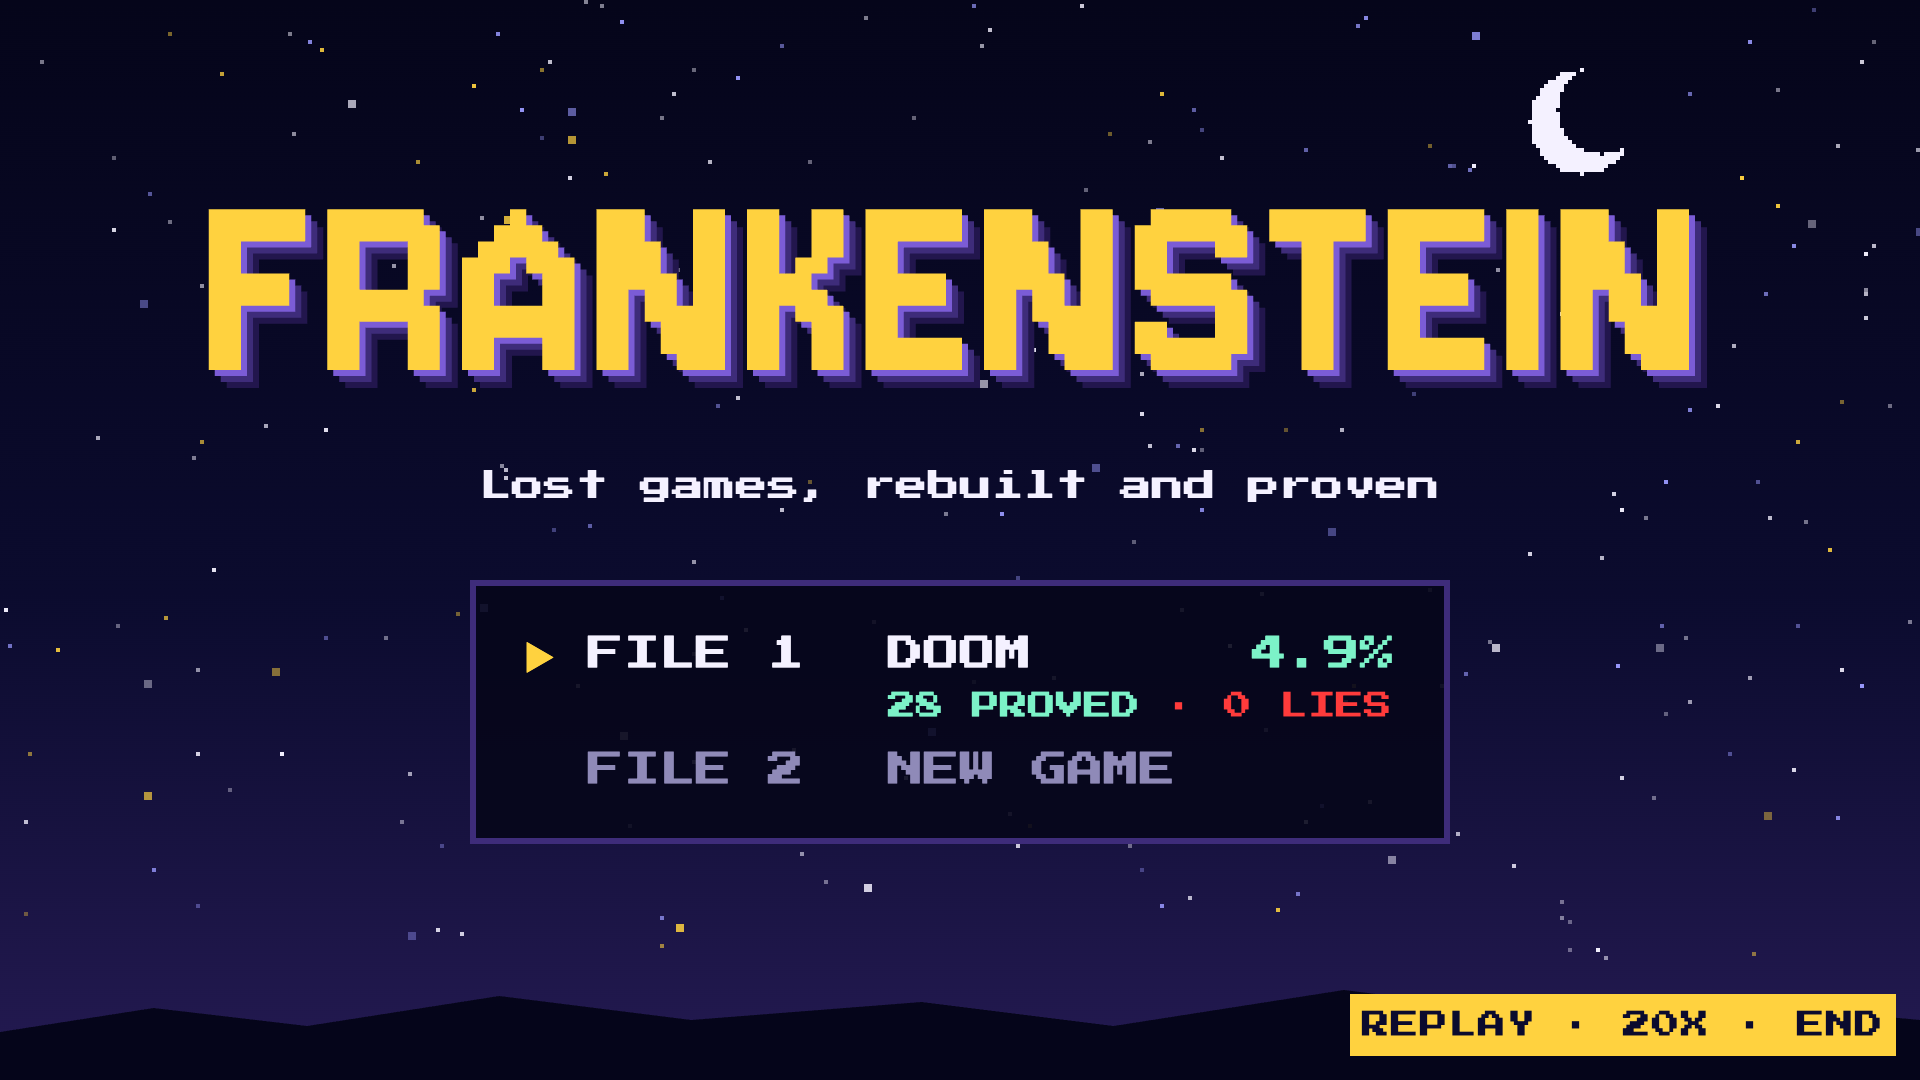
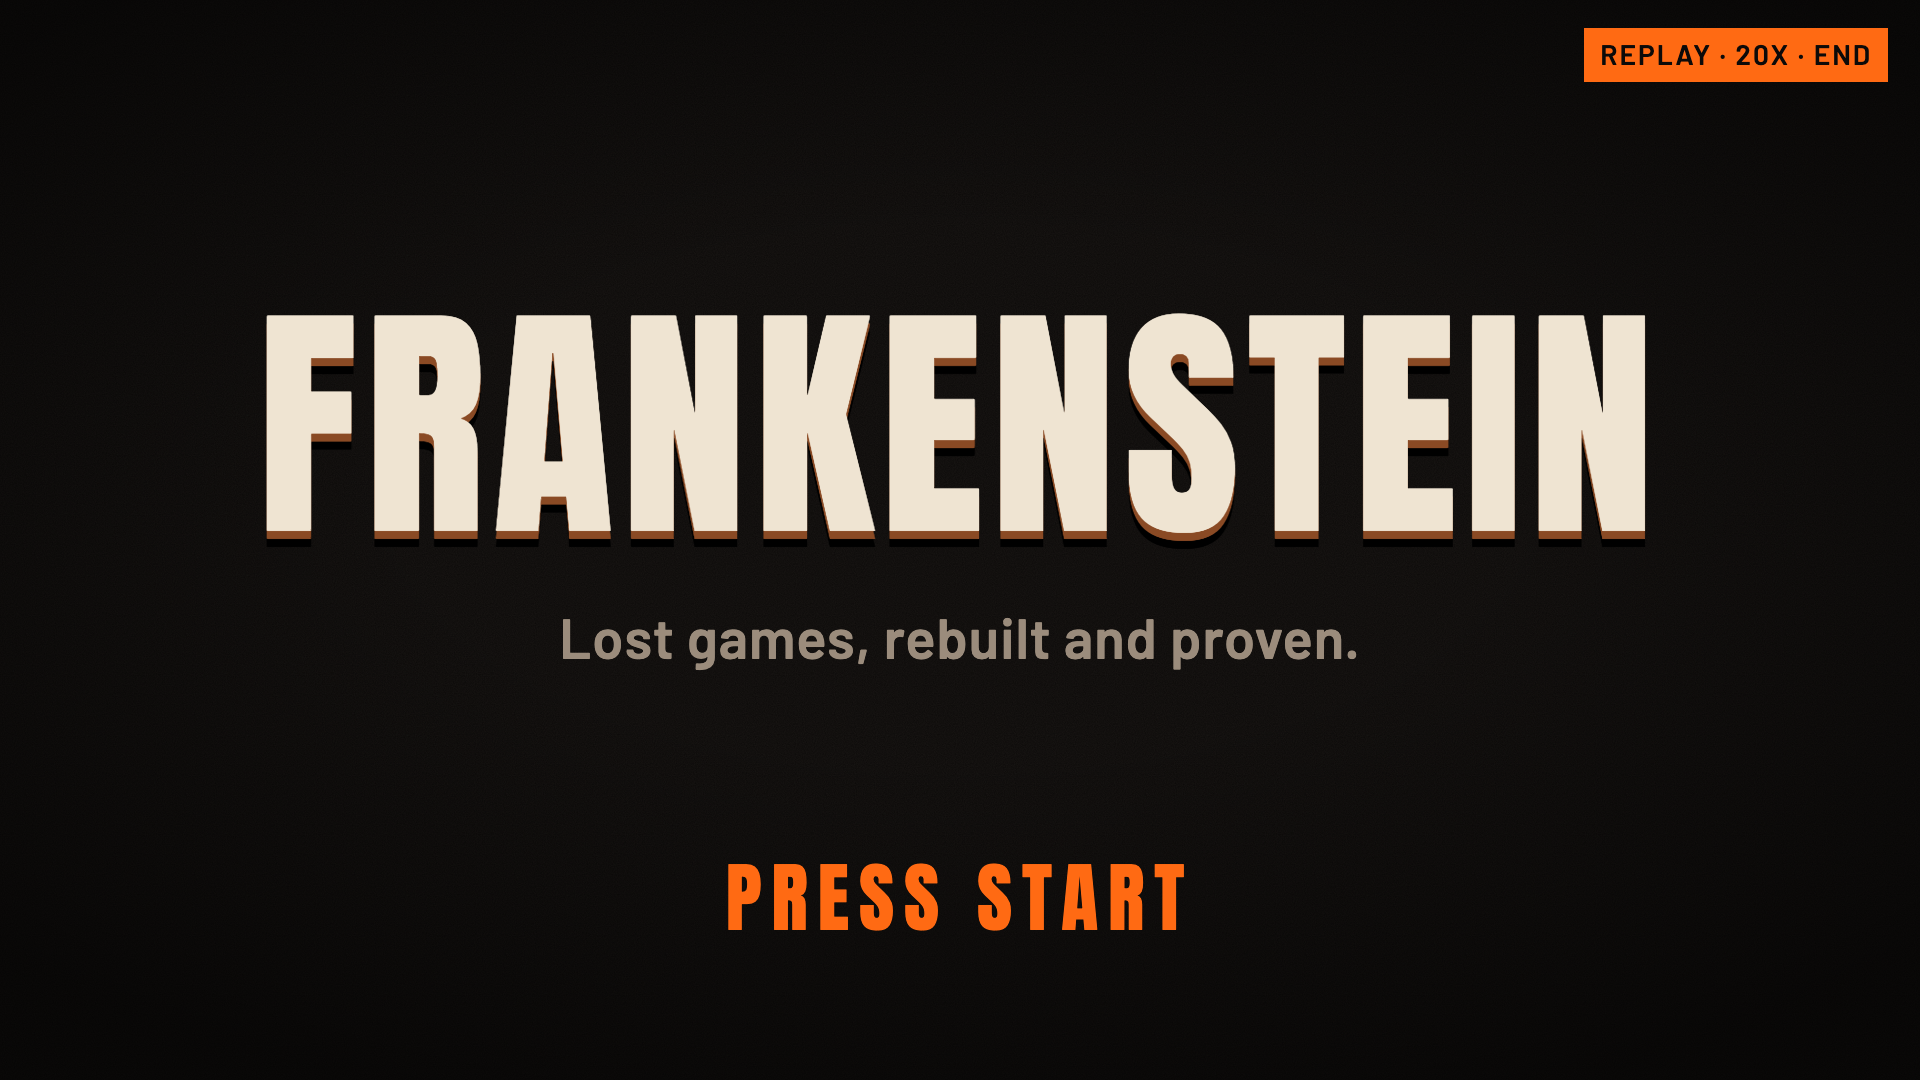
stage: Title screen: the name, one line, PRESS START
FRANKENSTEIN in Anton with a hard rust edge, 'Lost games, rebuilt and proven.'
and a blinking PRESS START (steady under reduced motion). The save-file menu,
moon and stars are gone.

diff --git a/stage/src/scenes/title.ts b/stage/src/scenes/title.ts
@@ -1,30 +1,7 @@
-// Scene 0: Title. Logo, save-file menu fed from the run, PRESS START.
+// Scene 0: Title. Three things only: the name, the promise, PRESS START.
+import './title.css';
 import type { Ctx, Scene } from '../types.ts';
 import { h } from '../types.ts';
-import { gameName, gamePct } from './common.ts';
-
-export function drawStars(cv: HTMLCanvasElement, moon = true) {
-  const g = cv.getContext('2d')!;
-  cv.width = 1920;
-  cv.height = 1080;
-  let seed = 1847;
-  const rnd = () => ((seed = (seed * 16807) % 2147483647) / 2147483647);
-  for (let i = 0; i < 260; i++) {
-    const x = Math.floor(rnd() * 480) * 4, y = Math.floor(rnd() * 240) * 4;
-    const big = rnd() < 0.12;
-    g.fillStyle = rnd() < 0.15 ? '#FFD23F' : rnd() < 0.3 ? '#9A9AFF' : '#F4F1FF';
-    g.globalAlpha = 0.35 + rnd() * 0.65;
-    g.fillRect(x, y, big ? 8 : 4, big ? 8 : 4);
-  }
-  g.globalAlpha = 1;
-  if (!moon) return;
-  // a pixel moon
-  g.fillStyle = '#F4F1FF';
-  const mx = 1580, my = 120, r = 13;
-  for (let yy = -r; yy <= r; yy++) for (let xx = -r; xx <= r; xx++) {
-    if (xx * xx + yy * yy <= r * r && (xx - 5) * (xx - 5) + (yy + 3) * (yy + 3) > (r - 2) * (r - 2)) g.fillRect(mx + xx * 4, my + yy * 4, 4, 4);
-  }
-}
 
 export class TitleScene implements Scene {
   id = 'title' as const;
@@ -32,30 +9,12 @@ export class TitleScene implements Scene {
 
   constructor(reduced: boolean) {
     this.el.innerHTML = `
-      <canvas class="stars"></canvas>
-      <div class="hill"></div>
-      <div class="logo">FRANKENSTEIN</div>
-      <div class="tag">Lost games, rebuilt and proven</div>
-      <div class="menu">
-        <div class="f"><span class="cur">▶</span><span>FILE 1</span><span data-k="game">DOOM</span><span class="pct" data-k="pct">--%</span></div>
-        <div class="sub" data-k="lies">0 LIES CAUGHT</div>
-        <div class="f new"><span></span><span>FILE 2</span><span>NEW GAME</span><span></span></div>
+      <div class="ti-col">
+        <h1 class="ti-logo">FRANKENSTEIN</h1>
+        <p class="ti-tag">Lost games, rebuilt and proven.</p>
       </div>
-      <div class="press${reduced ? '' : ' blink'}">PRESS START</div>
-`;
-    drawStars(this.el.querySelector('canvas')!);
+      <div class="ti-press${reduced ? '' : ' blink'}">PRESS START</div>`;
   }
 
-  render(ctx: Ctx) {
-    const s = ctx.state;
-    const q = (k: string) => this.el.querySelector(`[data-k="${k}"]`)!;
-    // the save file shows the whole game, not this run's share
-    const p = `${gamePct(ctx)}%`;
-    if (q('pct').textContent !== p) q('pct').textContent = p;
-    const g = gameName(s);
-    if (q('game').textContent !== g) q('game').textContent = g;
-    // proved in mint, lies in red: alarm red only ever means a lie
-    const l = `<b>${s.matched.length} PROVED</b> · ${s.falseClaims.length} LIES`;
-    if (q('lies').innerHTML !== l) q('lies').innerHTML = l;
-  }
+  render(_ctx: Ctx) { /* nothing on this screen follows the run */ }
 }

diff --git a/stage/src/scenes/title.css b/stage/src/scenes/title.css
@@ -1,0 +1,23 @@
+/* Title: the name, the promise, PRESS START. Huge type, empty space. */
+
+.title { background: radial-gradient(ellipse 70% 60% at 50% 46%, transparent 40%, rgba(0, 0, 0, .55)); }
+
+.title .ti-col {
+  position: absolute; left: 0; right: 0; top: 300px;
+  display: flex; flex-direction: column; align-items: center;
+}
+.title .ti-logo {
+  font: 400 250px/1 var(--display); letter-spacing: 8px; color: var(--bone);
+  /* hard rust edge, then a black drop: carved metal, no glow */
+  text-shadow: 0 8px 0 var(--rust), 0 16px 0 #000;
+}
+.title .ti-tag {
+  margin-top: 56px;
+  font: 600 56px/1.1 var(--text); color: var(--ash); letter-spacing: 1px;
+}
+
+.title .ti-press {
+  position: absolute; left: 0; right: 0; top: 860px; text-align: center;
+  font: 400 76px/1 var(--display); letter-spacing: 10px; color: var(--fire);
+}
+.title .ti-press.blink { animation: blink 1.1s steps(1) infinite; }
